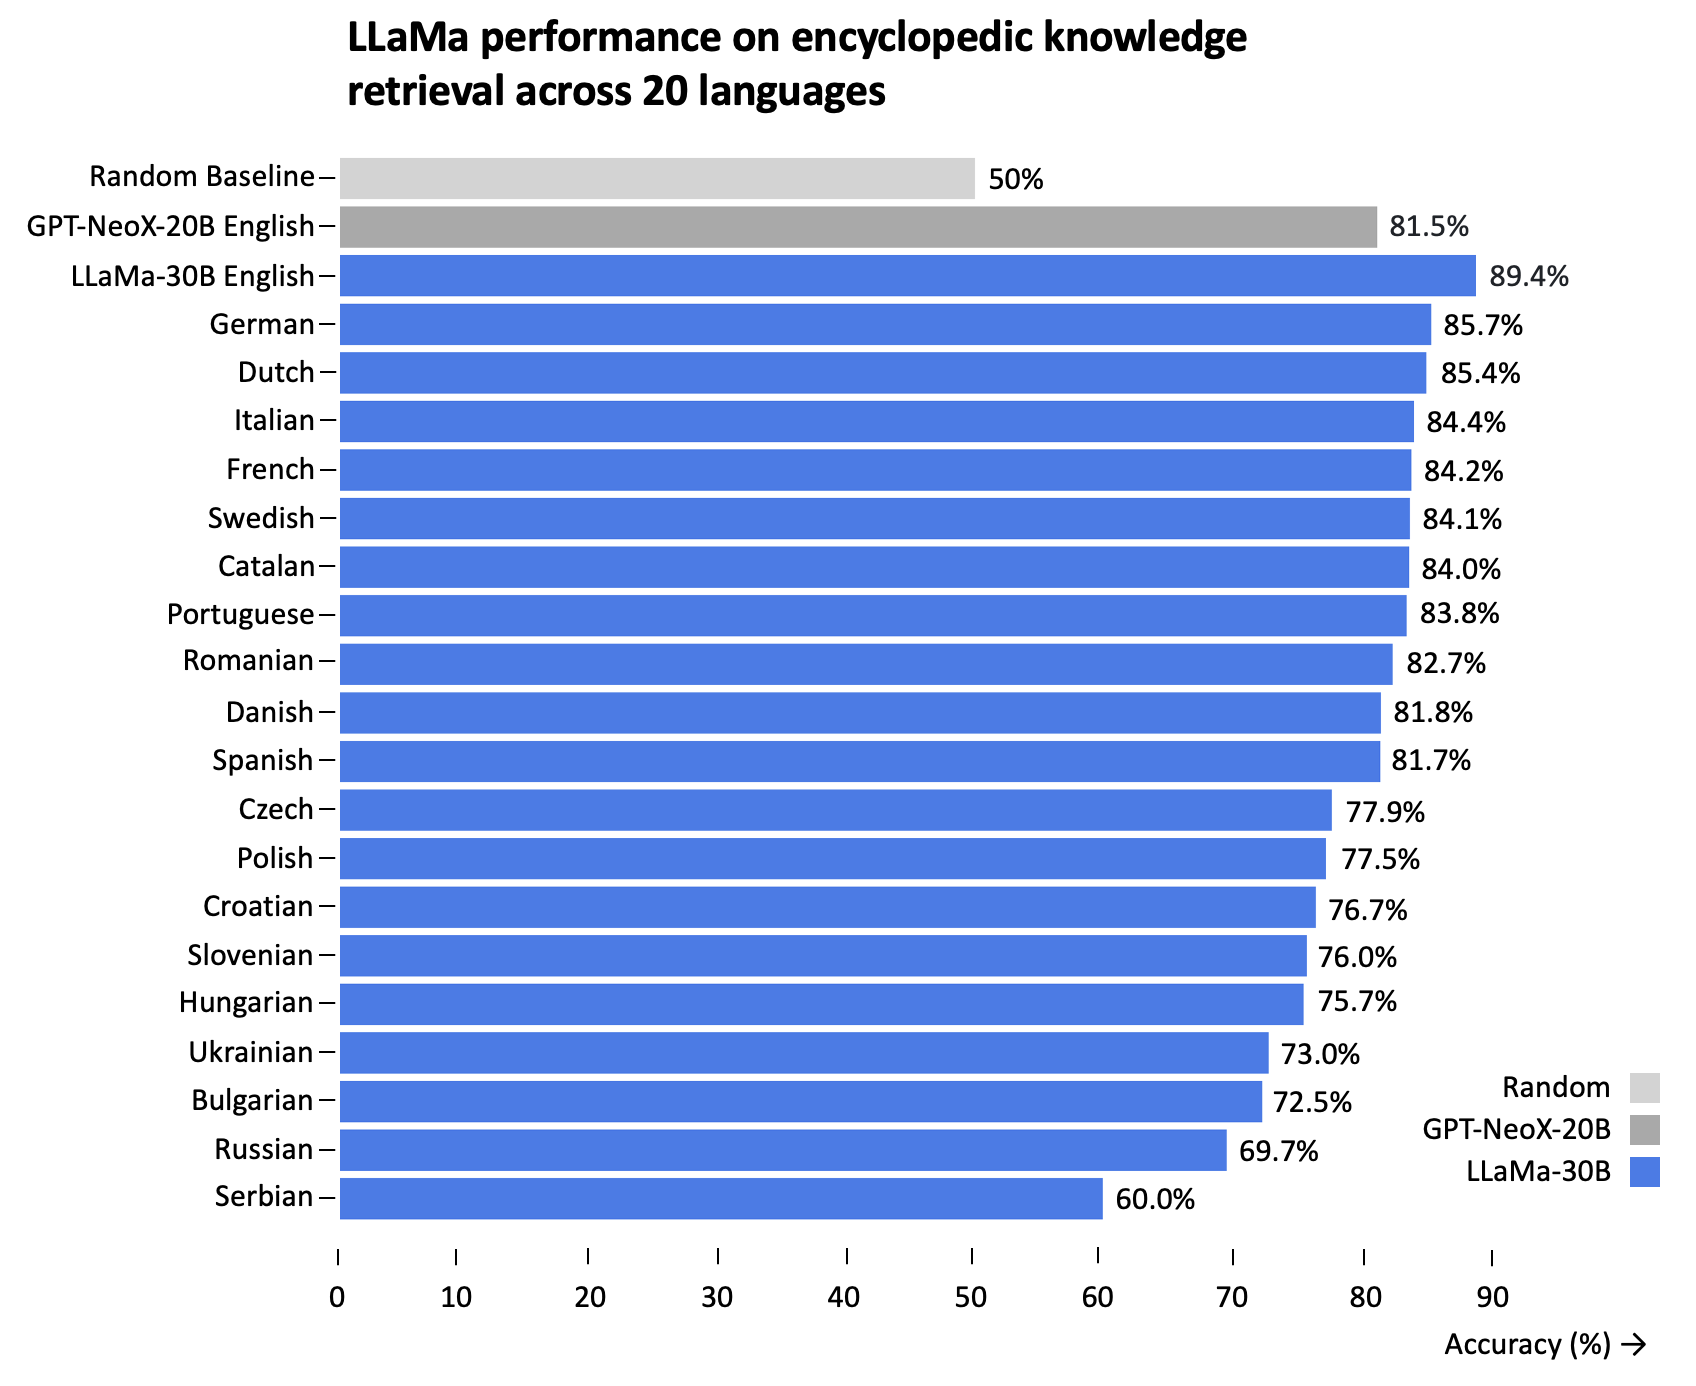
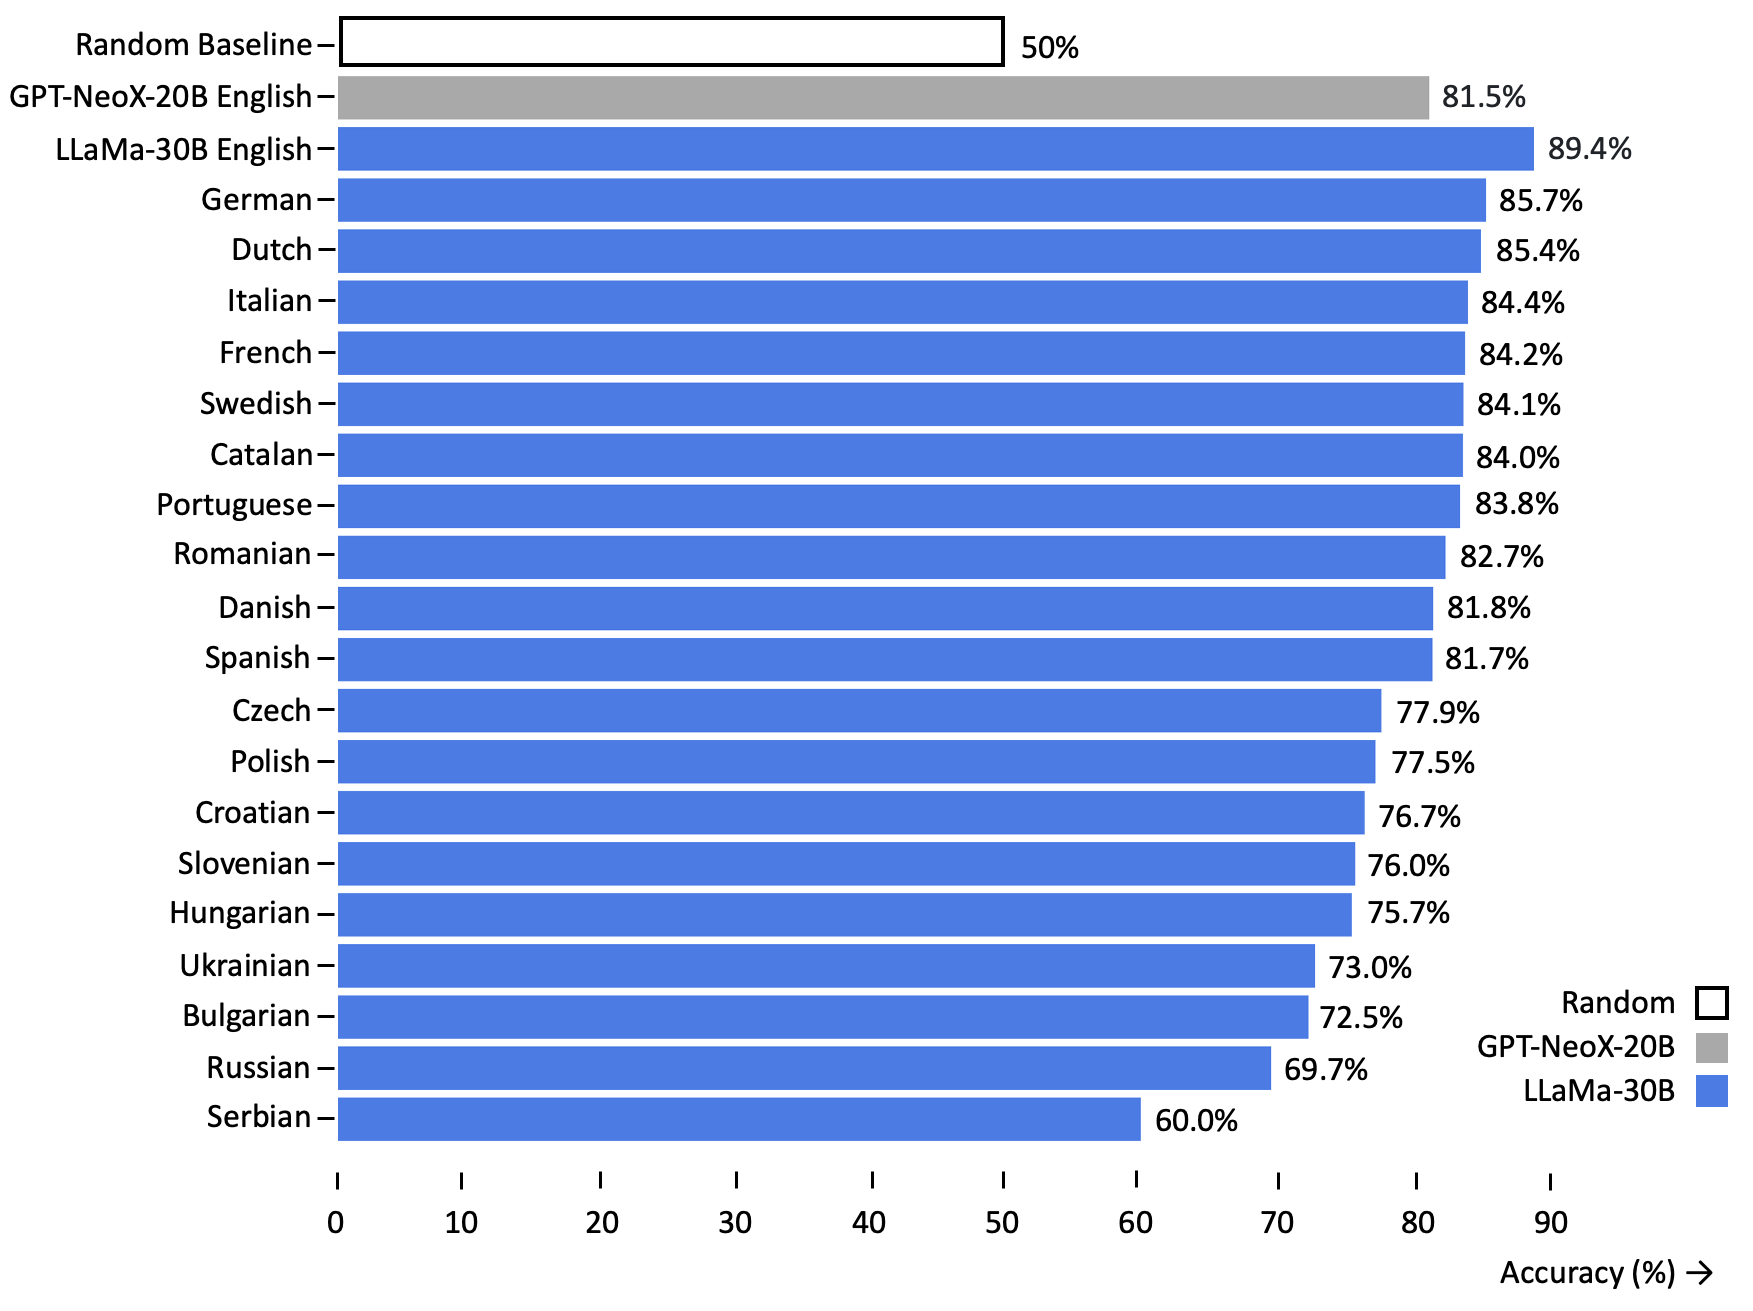
en bar plot added to readme

diff --git a/README.md b/README.md
@@ -60,6 +60,8 @@ We present [`CalibraGPT/Fact-Completion.parquet`][hf_data], a fact completion da
 | [mt5-xl](https://arxiv.org/abs/2010.11934) |  **59.96** +/- 0.59 | 3.7B |  Xue et al., 2020 | Google |
 | Random Baseline | 50   | &nbsp; | &nbsp; | &nbsp; |  
 
+![English test leaderboard](notebooks/viz/assets/english_h_bar_plot_final.png)
+
 &nbsp;
 
 ### **LLaMa** fact-completion results across all 20 languages. 
